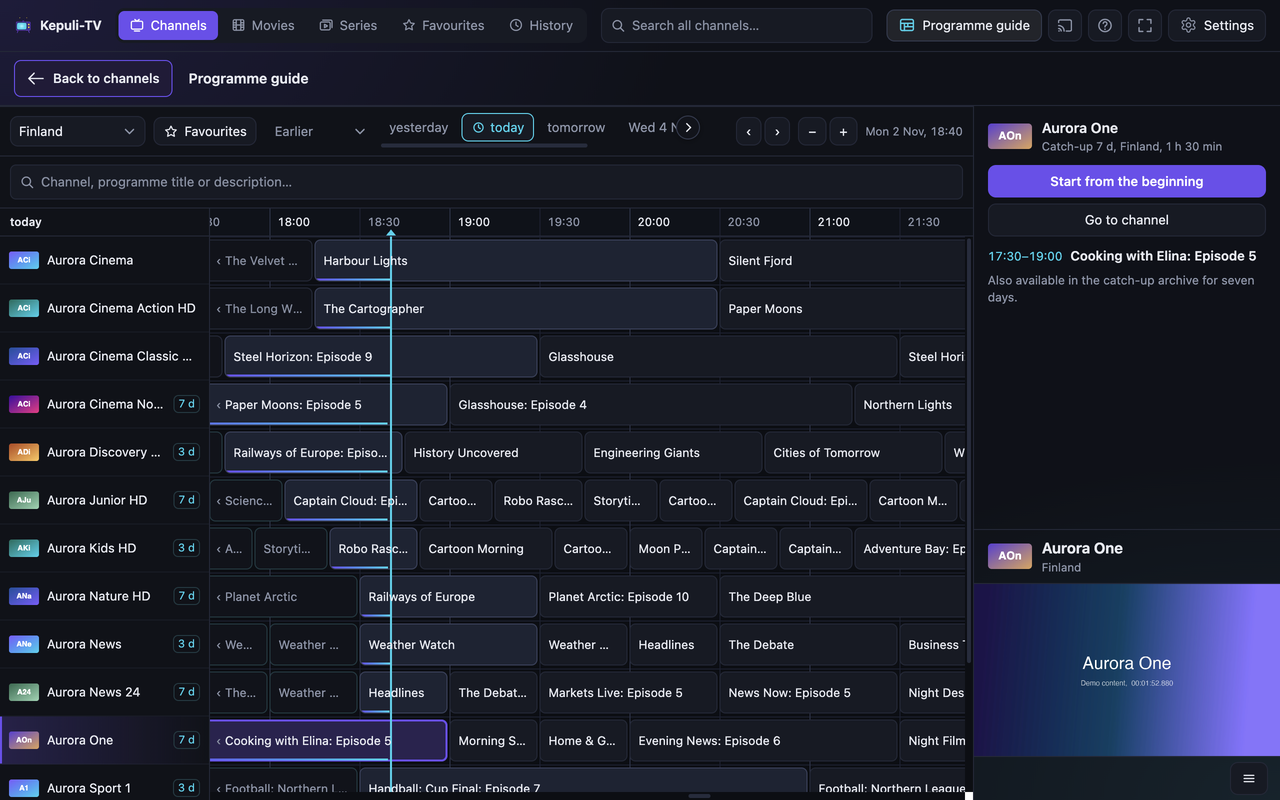
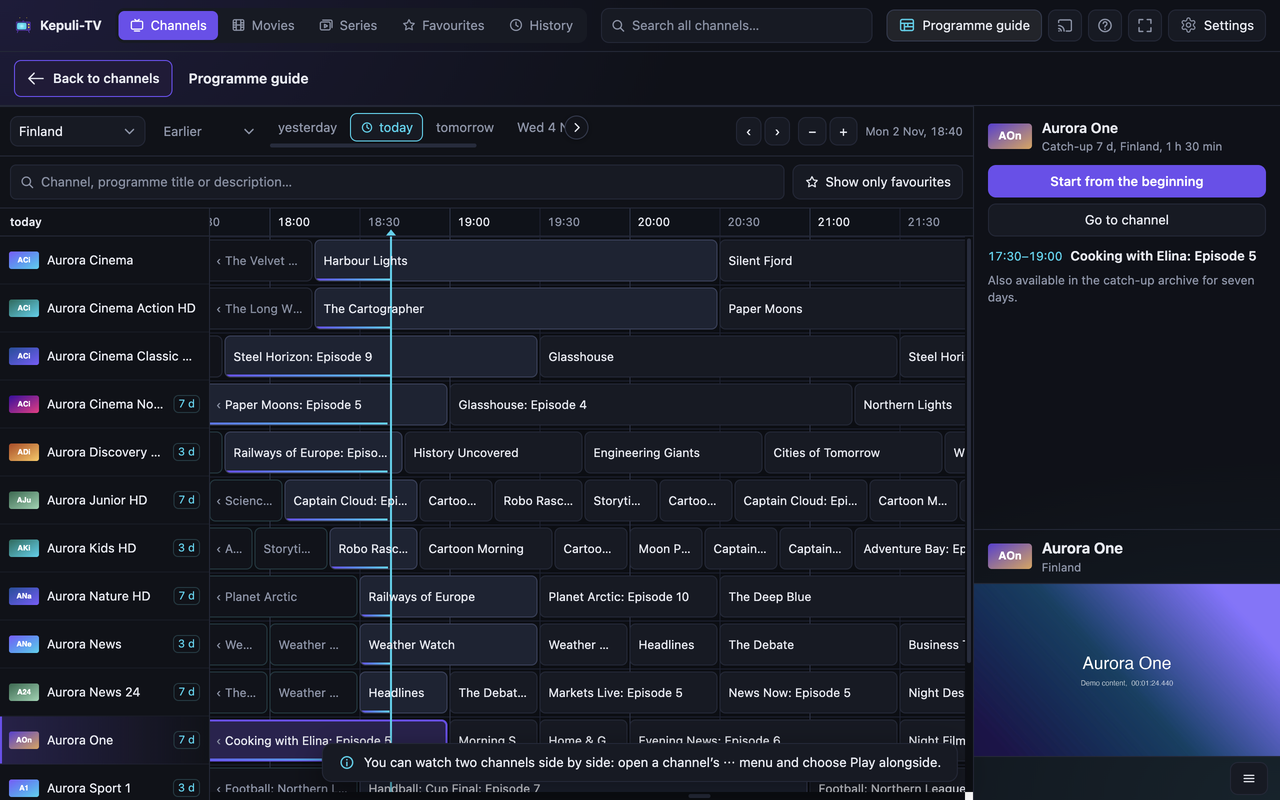
The guide's panel no longer scrolls sideways on an upright iPad, and its favourites switch stands beside the search
Beside the guide on an upright iPad the panel is 210 px inside its
padding, and a pick's card was held to 15rem: the whole panel scrolled
sideways. A card is now no wider than its column. The simulator's guide
scenario checks that the panel fits.

The favourites switch moves from the bar to the right of the search
field, where there is room for "Show only favourites", and the strip of
days gets the place it left. Where the search waits behind its mark (a
phone, a low window) the form is out of sight, so there the switch is
moved into the bar as a star alone, as before (placeGuideFavorites).
The guide's reference pictures are retaken in both themes.

Claude-Session: https://claude.ai/code/session_011jsMntd6GXRcB4RgccRtUz

diff --git a/player.html b/player.html
@@ -436,8 +436,6 @@
   <section class="epg" id="epg" hidden>
     <div class="epg-bar">
       <select id="epg-group" class="epg-select" data-i18n-title="guide.group.title"></select>
-      <!-- The favourite channels alone, whatever group they are in. -->
-      <button type="button" id="epg-favs" class="ghost epg-favs" aria-pressed="false" data-i18n-title="guide.favs.title"><svg viewBox="0 0 20 20" aria-hidden="true"><path d="m10 2.8 2.2 4.5 5 .7-3.6 3.5.9 4.9L10 14.1l-4.5 2.3.9-4.9L2.8 8l5-.7z"/></svg><span data-i18n="tab.fav">Favourites</span></button>
       <!-- On a phone the programme search waits behind this, the bar
            keeping two rows (js/guideui.js); elsewhere it is not shown. -->
       <button type="button" id="epg-search" class="ghost icon epg-search-toggle" aria-expanded="false" aria-controls="programme-form" data-i18n-title="programmes.search" data-i18n-label="programmes.search"><svg viewBox="0 0 20 20" aria-hidden="true"><circle cx="9" cy="9" r="6"/><path d="M13.5 13.5 18 18"/></svg></button>
@@ -460,6 +458,11 @@
       <span class="search-field"><svg viewBox="0 0 20 20" aria-hidden="true"><circle cx="9" cy="9" r="6"/><path d="M13.5 13.5 18 18"/></svg>
         <input id="programme-query" type="search" data-i18n-placeholder="programmes.placeholder" data-i18n-label="programmes.placeholder" autocomplete="off">
       </span>
+      <!-- The favourite channels alone, whatever group they are in: beside
+           the search, where there is room for its words. Where the search
+           waits behind its mark (a phone, a low window) it is moved into
+           the bar as a star alone (js/guideui.js placeGuideFavorites). -->
+      <button type="button" id="epg-favs" class="ghost epg-favs" aria-pressed="false" data-i18n-title="guide.favs.title"><svg viewBox="0 0 20 20" aria-hidden="true"><path d="m10 2.8 2.2 4.5 5 .7-3.6 3.5.9 4.9L10 14.1l-4.5 2.3.9-4.9L2.8 8l5-.7z"/></svg><span data-i18n="filters.favs">Show only favourites</span></button>
     </form>
     <section id="programme-panel" class="programme-panel" hidden data-i18n-label="programmes.results">
       <!-- As the list's loading strip (#list-progress): while it searches, the

diff --git a/js/guideui.js b/js/guideui.js
@@ -214,6 +214,20 @@ function guideChannels() {
   return guideFavorites ? favoriteChannels() : state.rows.filter((it) => it.k === 0);
 }
 
+/**
+ * The switch stands beside the search field, and in the bar, before the
+ * search's mark, where the field waits behind that mark and would take
+ * the switch out of sight with it: the layouts of css/last.css (a phone)
+ * and css/narrow.css (a low window).
+ */
+const searchFolded = matchMedia('(max-width: 600px), (max-height: 440px) and (min-width: 601px)');
+function placeGuideFavorites() {
+  if (searchFolded.matches) $('epg-search').before($('epg-favs'));
+  else $('programme-form').append($('epg-favs'));
+}
+searchFolded.addEventListener('change', placeGuideFavorites);
+placeGuideFavorites();
+
 function renderGuideFavorites() {
   const button = $('epg-favs');
   button.setAttribute('aria-pressed', String(guideFavorites));

diff --git a/css/playback.css b/css/playback.css
@@ -318,7 +318,10 @@ body[data-substyle="contrast"] { --cue-back: #000; }
 @media (hover: none) { .idle-forget, .idle-star { opacity: 1; } }
 /* The picks (js/picks.js): a programme per card, its channel's logo beside
    it. One row of them, as many as the window is wide for (fitIdleHome). */
-.idle-picks { display: grid; grid-template-columns: repeat(auto-fill, minmax(15rem, 1fr)); gap: 10px; }
+/* A card is no wider than the column: in the guide on an upright iPad the
+   panel is 210 px inside its padding, and a card held to 15rem made the
+   whole panel scroll sideways. */
+.idle-picks { display: grid; grid-template-columns: repeat(auto-fill, minmax(min(15rem, 100%), 1fr)); gap: 10px; }
 .idle-pick[hidden] { display: none; }
 .idle-pick {
   position: relative; display: flex; align-items: flex-start; gap: 10px; min-width: 0; padding: 10px 12px 12px;

diff --git a/css/recordings.css b/css/recordings.css
@@ -58,6 +58,8 @@
 
 /* The guide's favourites switch. */
 .epg-favs { display: inline-flex; align-items: center; gap: 6px; }
+/* Beside the search field: as tall as the field, and never the one that gives way. */
+.programme-form > .epg-favs { flex: none; align-self: stretch; }
 .epg-favs svg { width: 15px; height: 15px; fill: none; stroke: currentColor; stroke-width: 1.6; stroke-linejoin: round; }
 .epg-favs[aria-pressed="true"] { color: var(--accent-ink); border-color: var(--accent); }
 .epg-favs[aria-pressed="true"] svg { fill: currentColor; }
